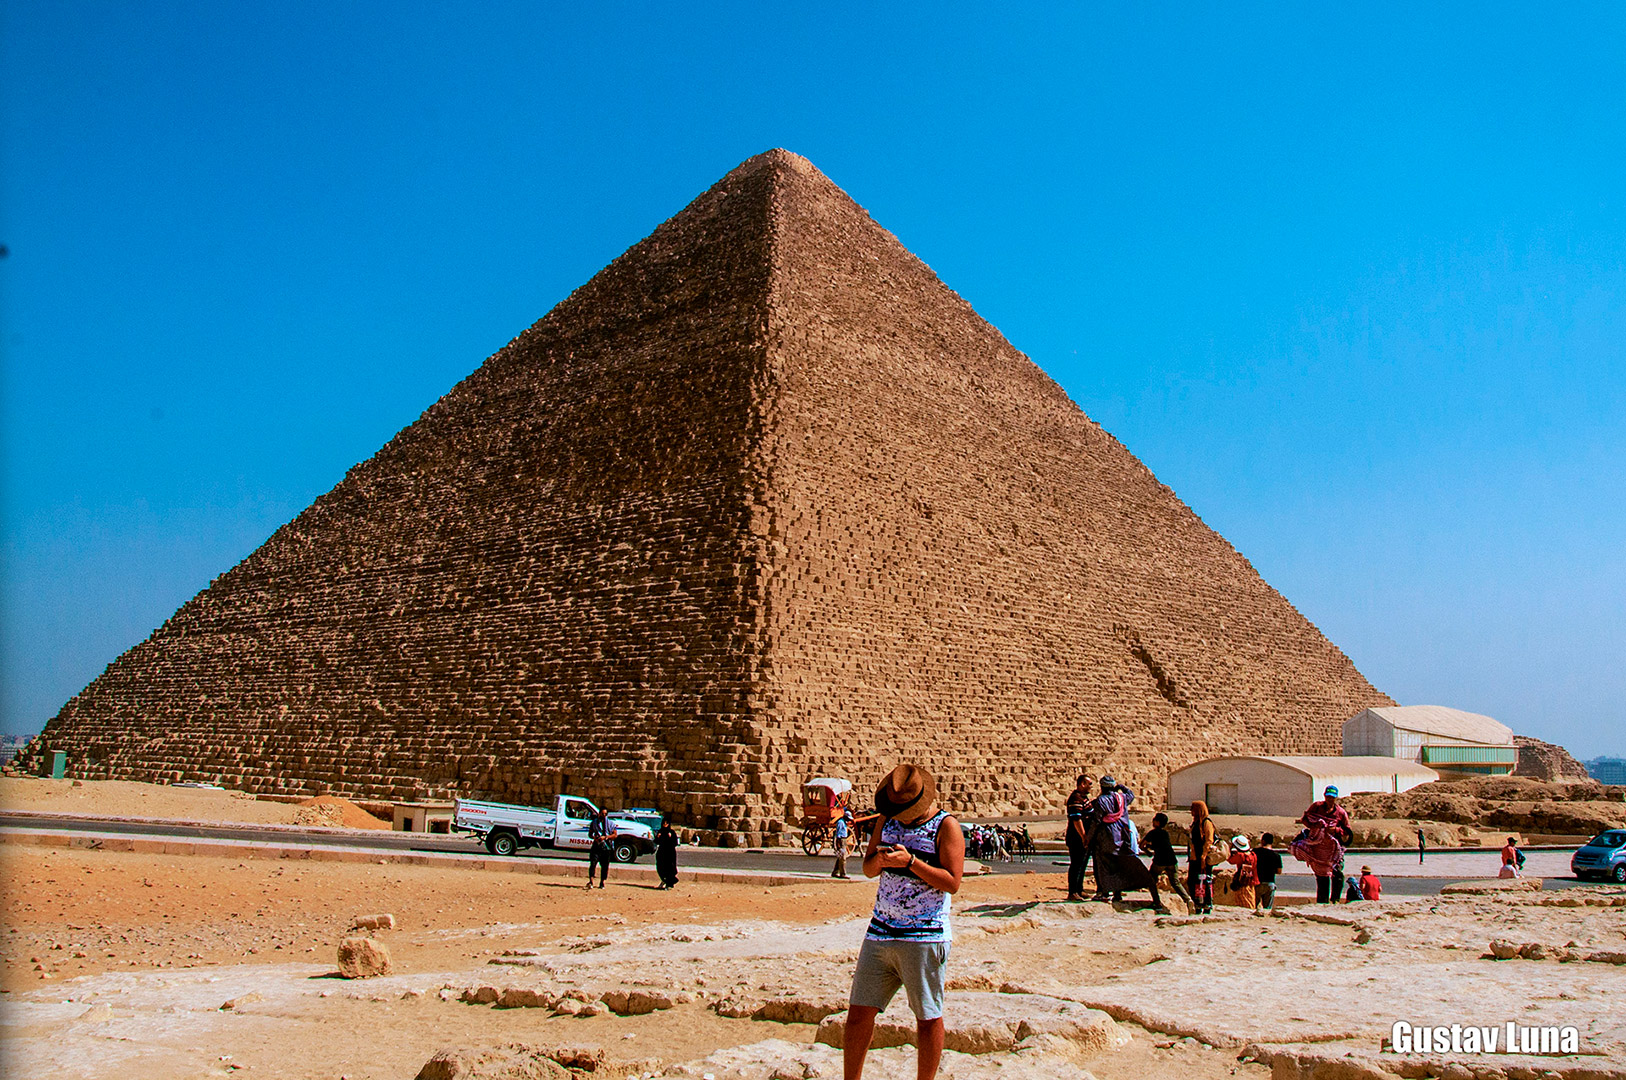
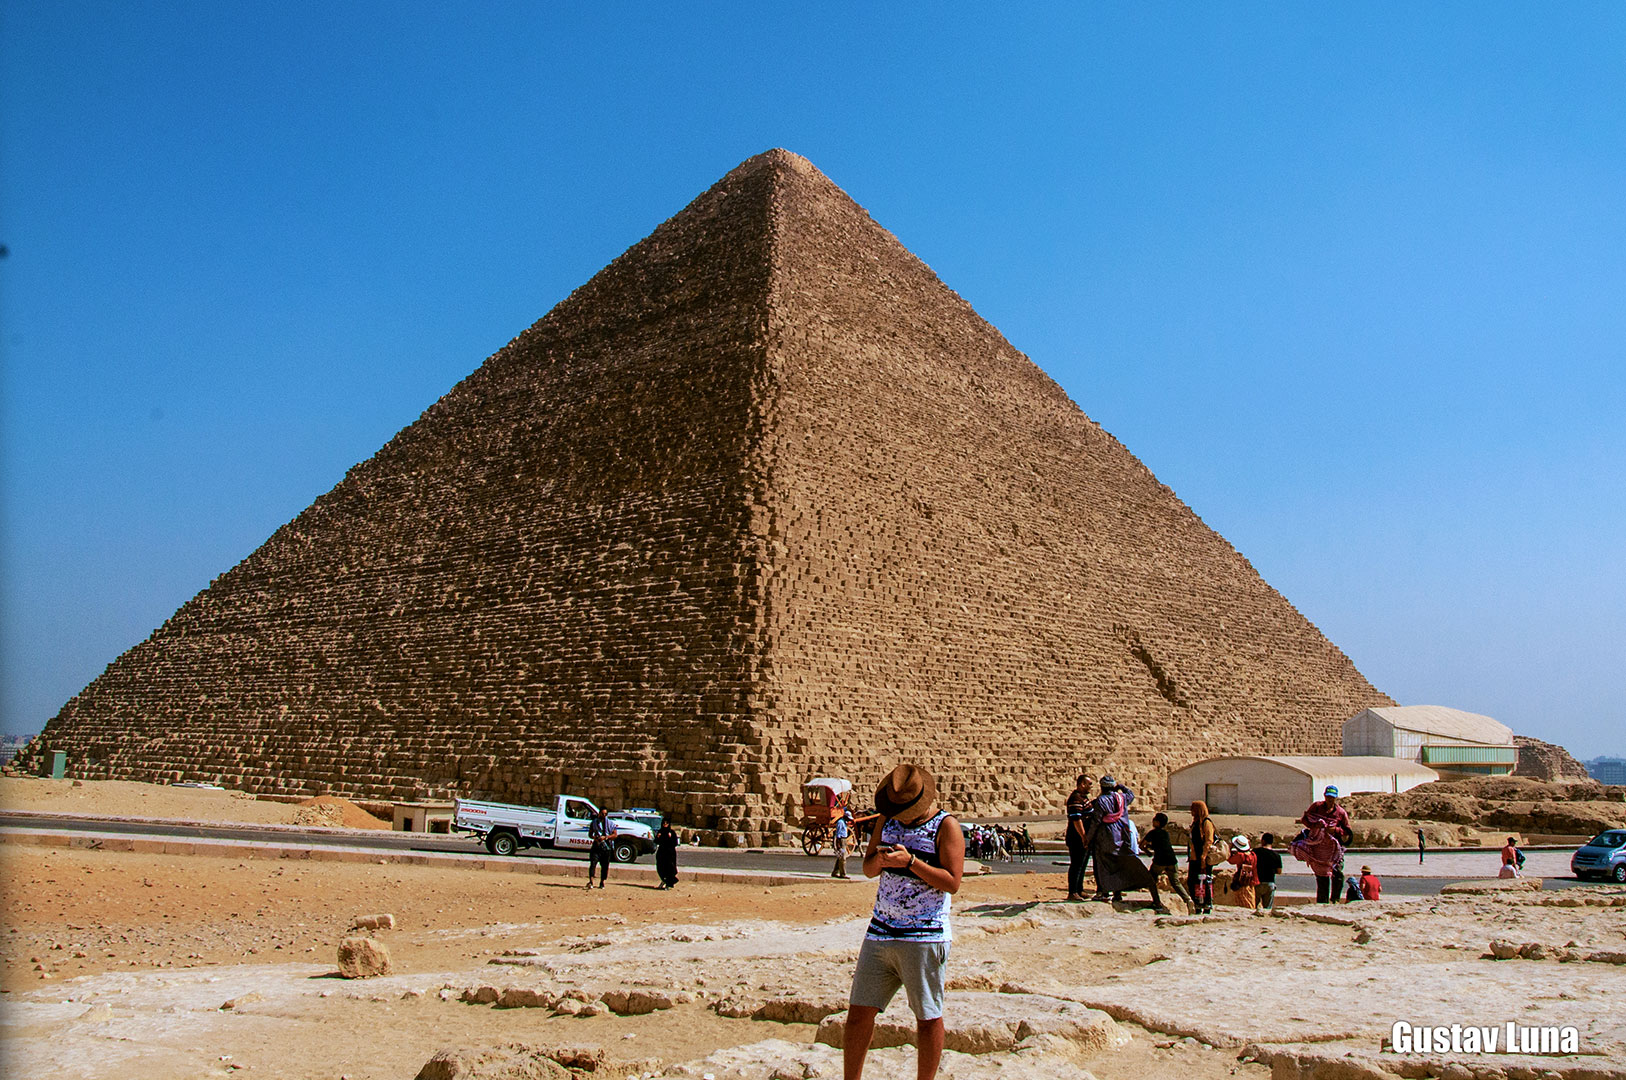
optimizando fotos

diff --git a/index.html b/index.html
@@ -63,17 +63,17 @@
         <div id="carouselExampleIndicators" class="carousel slide" data-ride="carousel">
             <div class="carousel-inner">
                 <div class="carousel-item active">
-                    <img src="media/Mexico.jpg" srcset="media/mexico-576.jpg 576w, media/Mexico.jpg" class="d-block w-100" alt="piramide">
-                    <div class="carousel-caption d-none d-md-block">
-                        <h5>Chichen Itzá</h5>
-                        <p class="colorp">En maya significa Boca-del-pozo(chichen) de los brujos-de-agua(Itzá). Consistió en una ciudad o centro ceremonial, paso por diversas épocas constructivas e influencias de los distintos pueblos que lo ocuparon y que la impulsaron desde su fundación.</p>
-                    </div>
-                </div>
-                <div class="carousel-item">
                     <img src="media/perito-moreno.jpg" srcset="media/peritomoreno-576.jpg 576w, media/perito-moreno.jpg"class="d-block w-100" alt="glaciar">
                     <div class="carousel-caption d-none d-md-block">
                         <h5>Perito Moreno</h5>
                         <p>El glaciar Perito Moreno tiene una longitud de 50 km aproximadamente, un ancho de 5km, 60 metros de alto en el frente y una superficie de 250km. Es el único glaciar que está en constante crecimiento y debido a eso se da unos de los espectáculos más asombroso del mundo, el rompimiento del puente de hielo.</p>
+                    </div>
+                </div>
+                <div class="carousel-item">
+                    <img src="media/Mexico.jpg" srcset="media/mexico-576.jpg 576w, media/Mexico.jpg" class="d-block w-100" alt="piramide">
+                    <div class="carousel-caption d-none d-md-block">
+                        <h5>Chichen Itzá</h5>
+                        <p>En maya significa Boca-del-pozo(chichen) de los brujos-de-agua(Itzá). Consistió en una ciudad o centro ceremonial, paso por diversas épocas constructivas e influencias de los distintos pueblos que lo ocuparon y que la impulsaron desde su fundación.</p>
                     </div>
                 </div>
                 <div class="carousel-item">
@@ -114,12 +114,12 @@
 
                     <!-- Contacto -->
                     <div class="mail">
-                       <img src="media/telefono.png" alt=""><span>+54 9 351 2636888</span>
-                       <img src="media/Mail.png" alt=""><a href="mailto:gustav.luna@hotmail.com">gustav.luna@hotmail.com</a>
-                   </div>
+                     <img src="media/telefono.png" alt=""><span>+54 9 351 2636888</span>
+                     <img src="media/Mail.png" alt=""><a href="mailto:gustav.luna@hotmail.com">gustav.luna@hotmail.com</a>
+                 </div>
 
-                   <!-- Redes Sociales -->
-                   <div class="Redes">          
+                 <!-- Redes Sociales -->
+                 <div class="Redes">          
                     <a href="https://www.facebook.com/Rulay" target="_blank"><img src="media/fbLogo.png" alt=""></a>
                     <a href="https://www.instagram.com/gustav.lunafotografia/?hl=es" target="_blank"><img src="media/InstaLogo.png" alt=""></a>
                     <a href="https://www.linkedin.com/in/gustavo-luna-2a2385217/" target="_blank"><img src="media/inLogo.png" alt=""></a>
@@ -128,15 +128,15 @@
                 </div>
             </div>     
             <div class="mail2">
-               <p>TODOS LOS DERECHOS RESERVADOS © | 2021</p>   
-           </div>
+             <p>TODOS LOS DERECHOS RESERVADOS © | 2021</p>   
+         </div>
 
-       </div>
-   </div>
+     </div>
+ </div>
 
-   <!-- Option 1: jQuery and Bootstrap Bundle (includes Popper) -->
-   <script src="https://code.jquery.com/jquery-3.5.1.slim.min.js" integrity="sha384-DfXdz2htPH0lsSSs5nCTpuj/zy4C+OGpamoFVy38MVBnE+IbbVYUew+OrCXaRkfj" crossorigin="anonymous"></script>
-   <script src="https://cdn.jsdelivr.net/npm/bootstrap@4.5.3/dist/js/bootstrap.bundle.min.js" integrity="sha384-ho+j7jyWK8fNQe+A12Hb8AhRq26LrZ/JpcUGGOn+Y7RsweNrtN/tE3MoK7ZeZDyx" crossorigin="anonymous"></script>
+ <!-- Option 1: jQuery and Bootstrap Bundle (includes Popper) -->
+ <script src="https://code.jquery.com/jquery-3.5.1.slim.min.js" integrity="sha384-DfXdz2htPH0lsSSs5nCTpuj/zy4C+OGpamoFVy38MVBnE+IbbVYUew+OrCXaRkfj" crossorigin="anonymous"></script>
+ <script src="https://cdn.jsdelivr.net/npm/bootstrap@4.5.3/dist/js/bootstrap.bundle.min.js" integrity="sha384-ho+j7jyWK8fNQe+A12Hb8AhRq26LrZ/JpcUGGOn+Y7RsweNrtN/tE3MoK7ZeZDyx" crossorigin="anonymous"></script>
 
 </body>
 </html>
